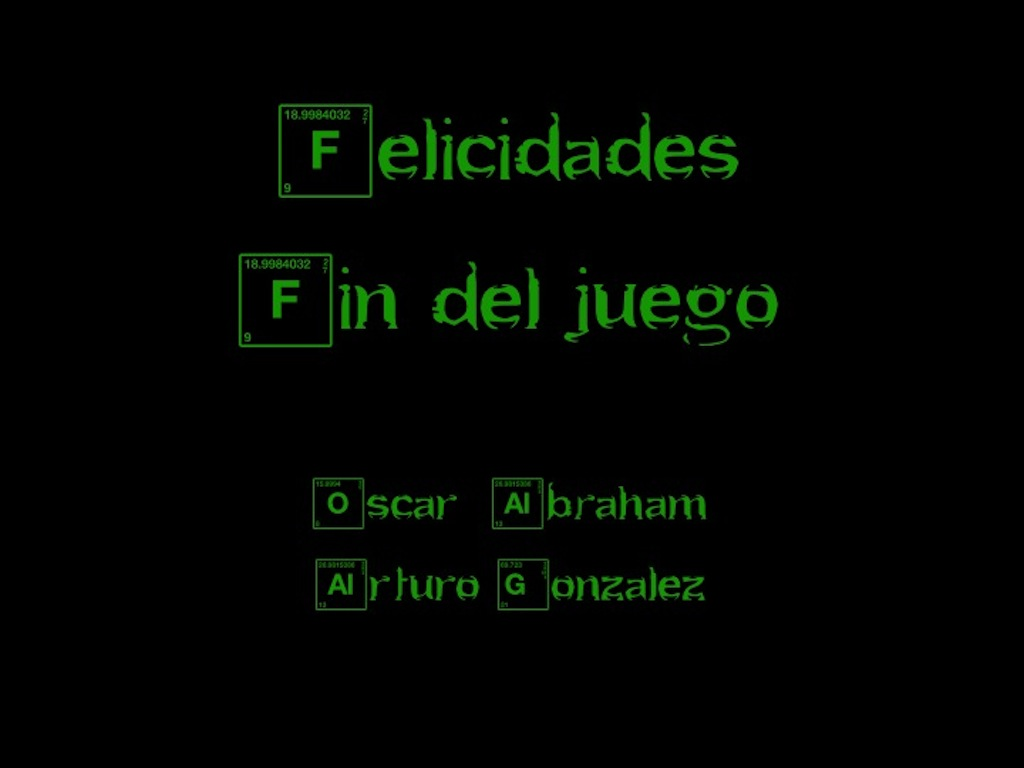
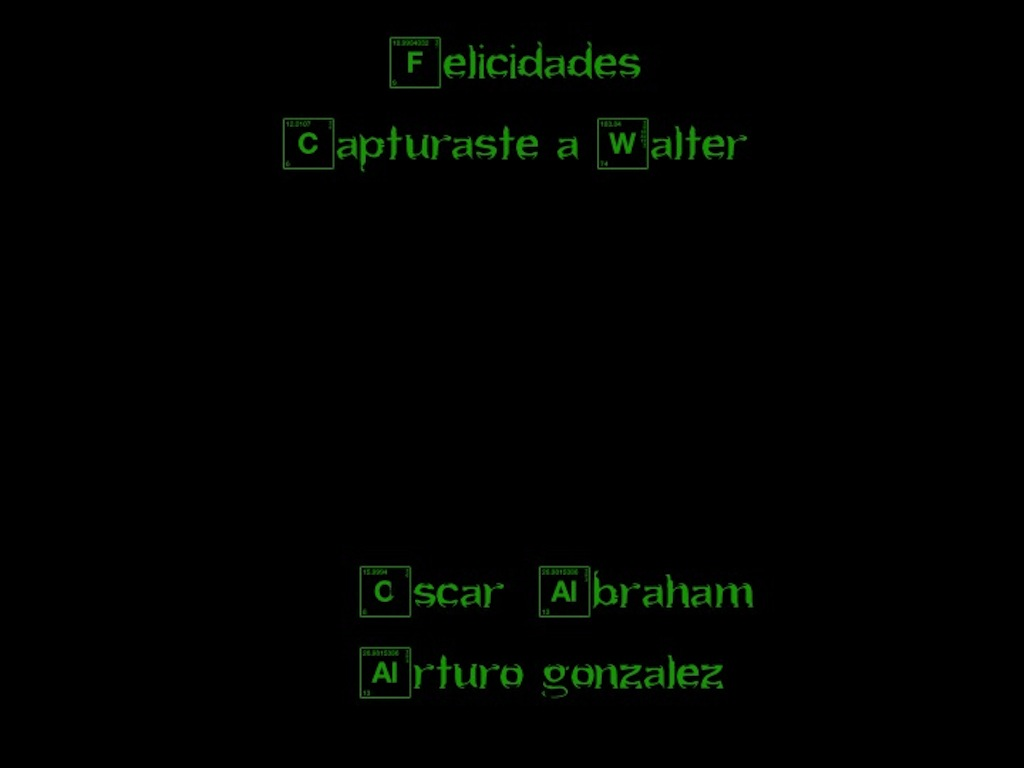
final

diff --git a/BreakingBad/src/breakingbad/Juego.java b/BreakingBad/src/breakingbad/Juego.java
@@ -53,6 +53,7 @@ public class Juego extends JFrame implements Runnable, KeyListener, MouseListene
     private Image fondo3;
     private Image fin;
     private Image comp;
+    private Image finW;
 
     private LinkedList<Meth> cubos;
     private LinkedList<Meth> cubos2;
@@ -143,10 +144,12 @@ public class Juego extends JFrame implements Runnable, KeyListener, MouseListene
         fondo3 = Toolkit.getDefaultToolkit().getImage(this.getClass().getResource("Images/fondo3.jpg"));
         fin = Toolkit.getDefaultToolkit().getImage(this.getClass().getResource("Images/gameover.jpg"));
         comp = Toolkit.getDefaultToolkit().getImage(this.getClass().getResource("Images/completo.jpg"));
-        URL gURL = this.getClass().getResource("Images/gameover.gif");
+        URL gURL = this.getClass().getResource("Images/finwalter.gif");
         im_over = Toolkit.getDefaultToolkit().getImage(gURL);
         URL iURL = this.getClass().getResource("Images/info.jpg");
         informacion = Toolkit.getDefaultToolkit().getImage(iURL);
+        URL fURL = this.getClass().getResource("Images/fin.gif");
+        finW = Toolkit.getDefaultToolkit().getImage(fURL);
        //
 
         //ints
@@ -676,6 +679,7 @@ public class Juego extends JFrame implements Runnable, KeyListener, MouseListene
      *
      * @param g es el <code>objeto grafico</code> usado para dibujar.
      */
+   
     public void paint1(Graphics g) {
         if (nivel1 && !ganaste) {
             g.drawImage(fondo, 0, 0, this);
@@ -688,7 +692,21 @@ public class Juego extends JFrame implements Runnable, KeyListener, MouseListene
         }
         if (heroe != null && bola != null && titulo != null) {
             if (gameover) {
-                g.drawImage(im_over, 0, 30, this);
+                g.drawImage(fin, 0, 0, this);
+                g.drawImage(im_over, 280, 210, this);
+                g.setColor(Color.WHITE);
+                g.drawString("Presiona 'n' para", 20, 350);
+                g.drawString("empezar otra vez", 20, 370);
+                g.drawString("Puntaje: "+bola.getScore(), 20, 470);
+            }
+        if(ganaste) {
+            g.drawImage(comp, 0, -15, this);
+            g.drawImage(finW, 280, 210, this);
+            g.setColor(Color.WHITE);
+            g.drawString("Presiona 'n' para", 20, 350);
+            g.drawString("empezar otra vez", 20, 370);
+            g.drawString("Puntaje: "+bola.getScore(), 20, 470);
+
             } else {
                 if (info) {
                     g.drawImage(informacion, 0, 0, this);
@@ -748,12 +766,8 @@ public class Juego extends JFrame implements Runnable, KeyListener, MouseListene
         if (nivel3) {
             g.drawImage(walter.getImagen(), walter.getPosX(), walter.getPosY(), this);
         }
-        if(gameover) {
-            g.drawImage(fin, tituloMov, 0, this);
-        }
-        if(ganaste) {
-            g.drawImage(comp, tituloMov, 0, this);
-        }
+
+
 
         g.setFont(new Font("TimesRoman", Font.BOLD, 30));
     }

diff --git a/BreakingBad/src/breakingbad/SoundClip.java b/BreakingBad/src/breakingbad/SoundClip.java
@@ -133,7 +133,6 @@ public class SoundClip {
         if (!isLoaded()) {
             return;
         }
-        //clip.setFramePosition(0);
          else {
             clip.loop(Clip.LOOP_CONTINUOUSLY);
         }
